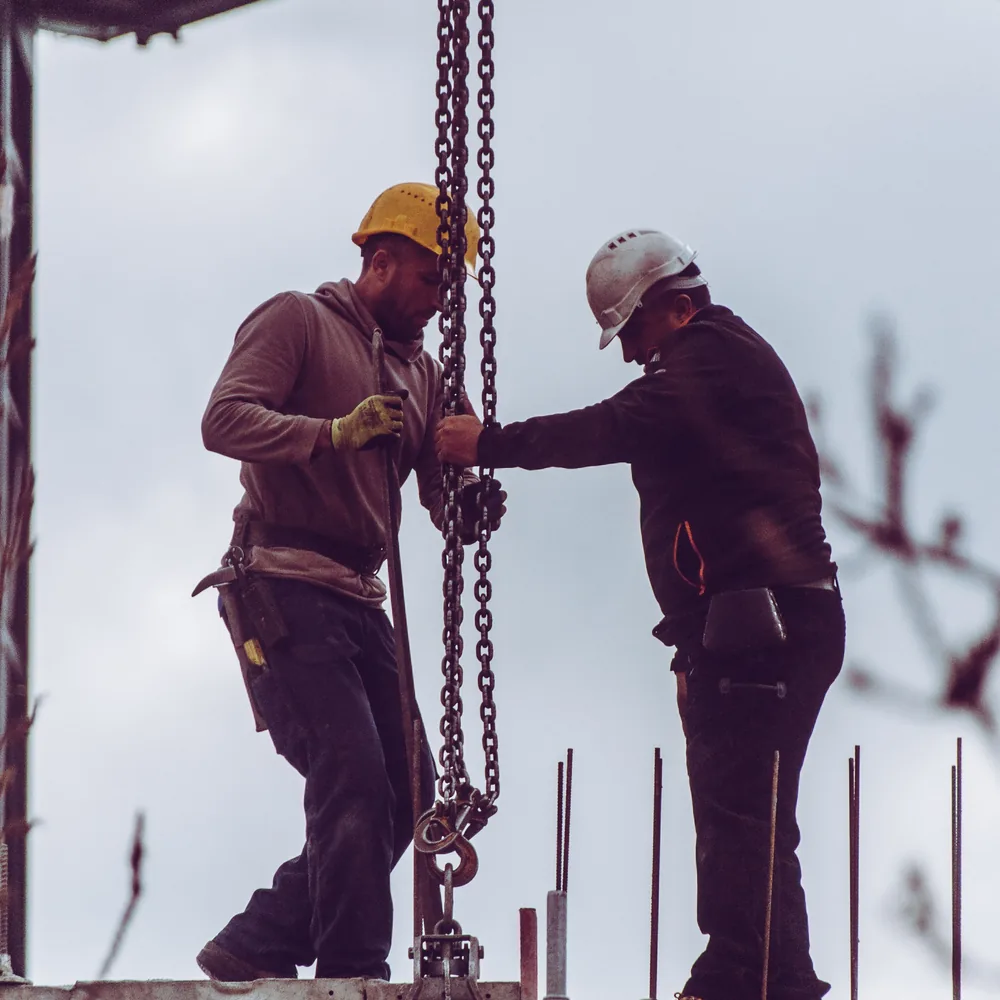
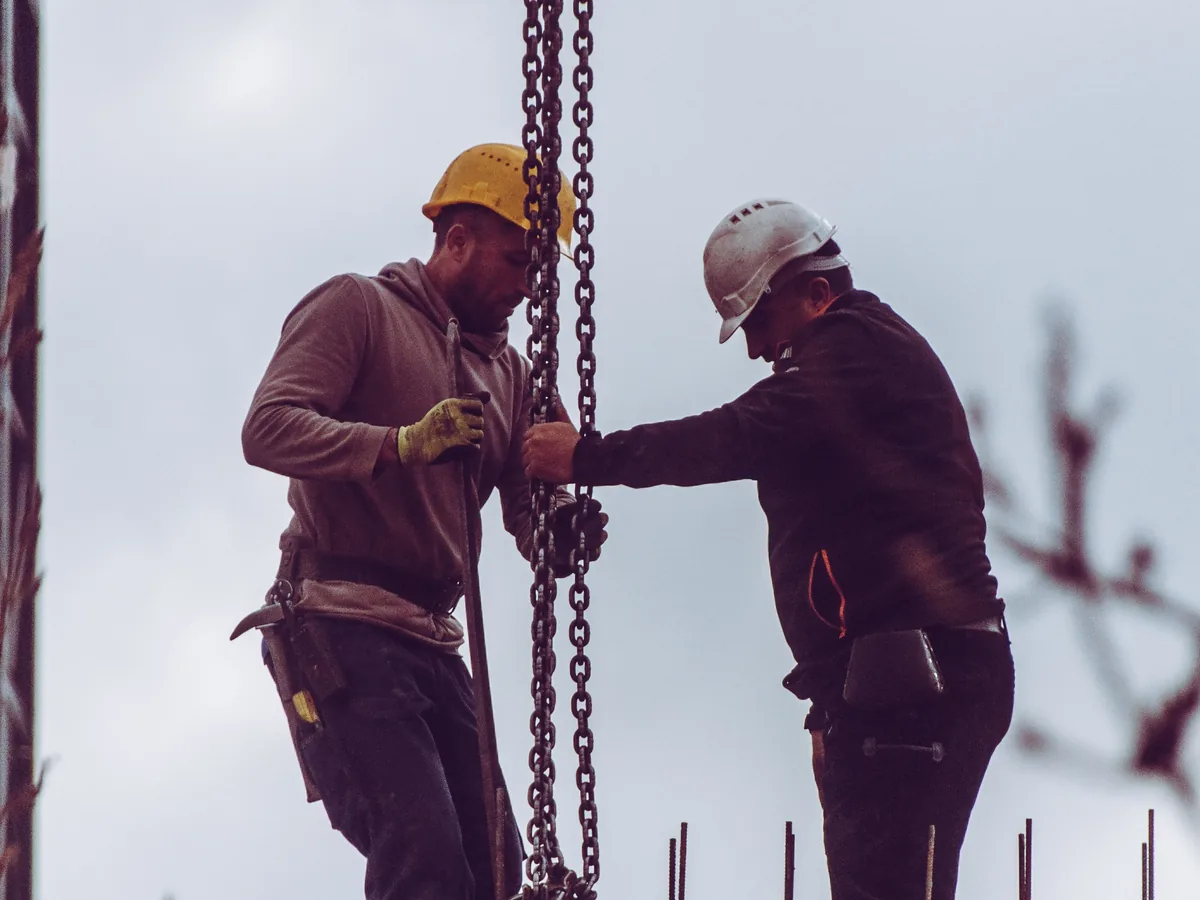
New Commit

diff --git a/components/sections/blog-card-grid.tsx b/components/sections/blog-card-grid.tsx
@@ -15,7 +15,7 @@ export function BlogCardGrid({ excludeHref }: { excludeHref?: string }) {
         <article
           className="flex flex-1 flex-col rounded-2xl border border-navy/10 bg-white shadow-sm transition hover:shadow-lg"
         >
-          <div className="relative aspect-square w-full overflow-hidden rounded-t-2xl bg-muted">
+          <div className="relative aspect-[4/3] w-full overflow-hidden rounded-t-2xl bg-muted">
             <Image
               src={post.image}
               alt={`Cover image for the article “${post.title}”`}
